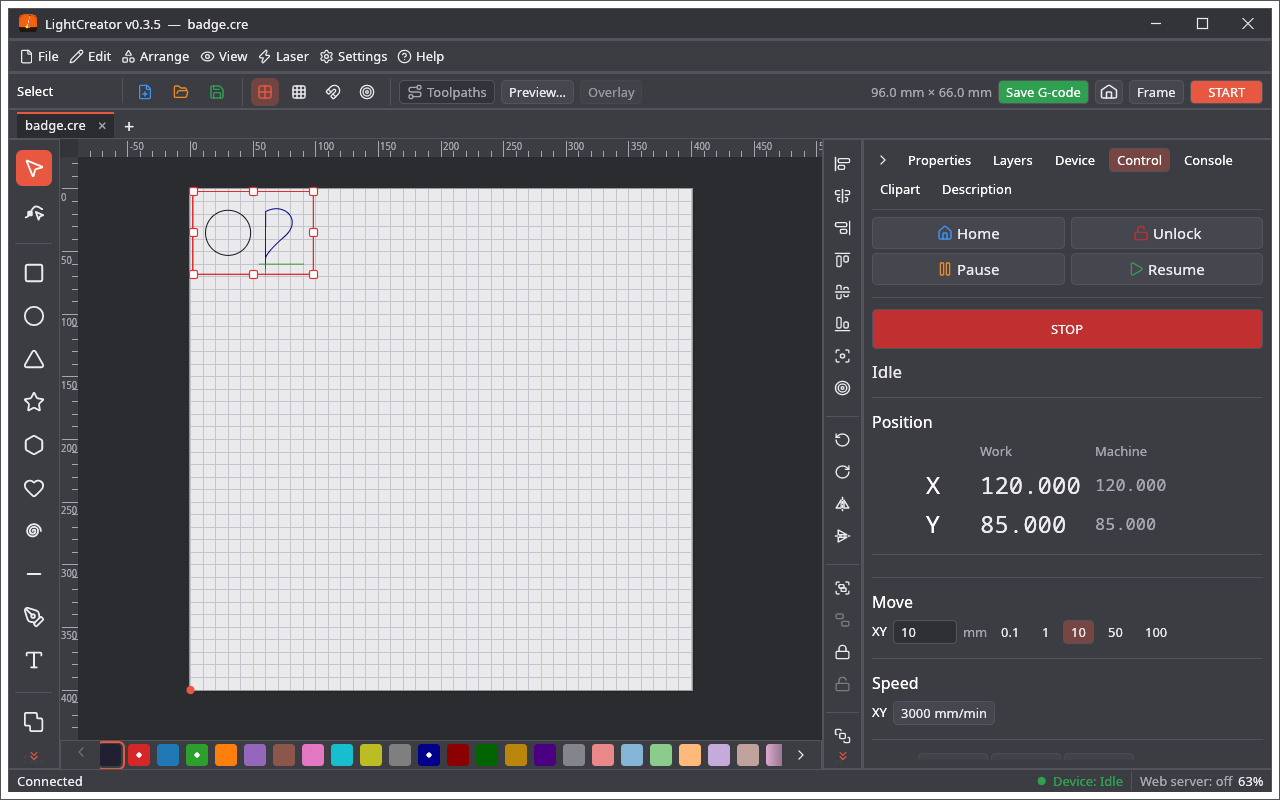
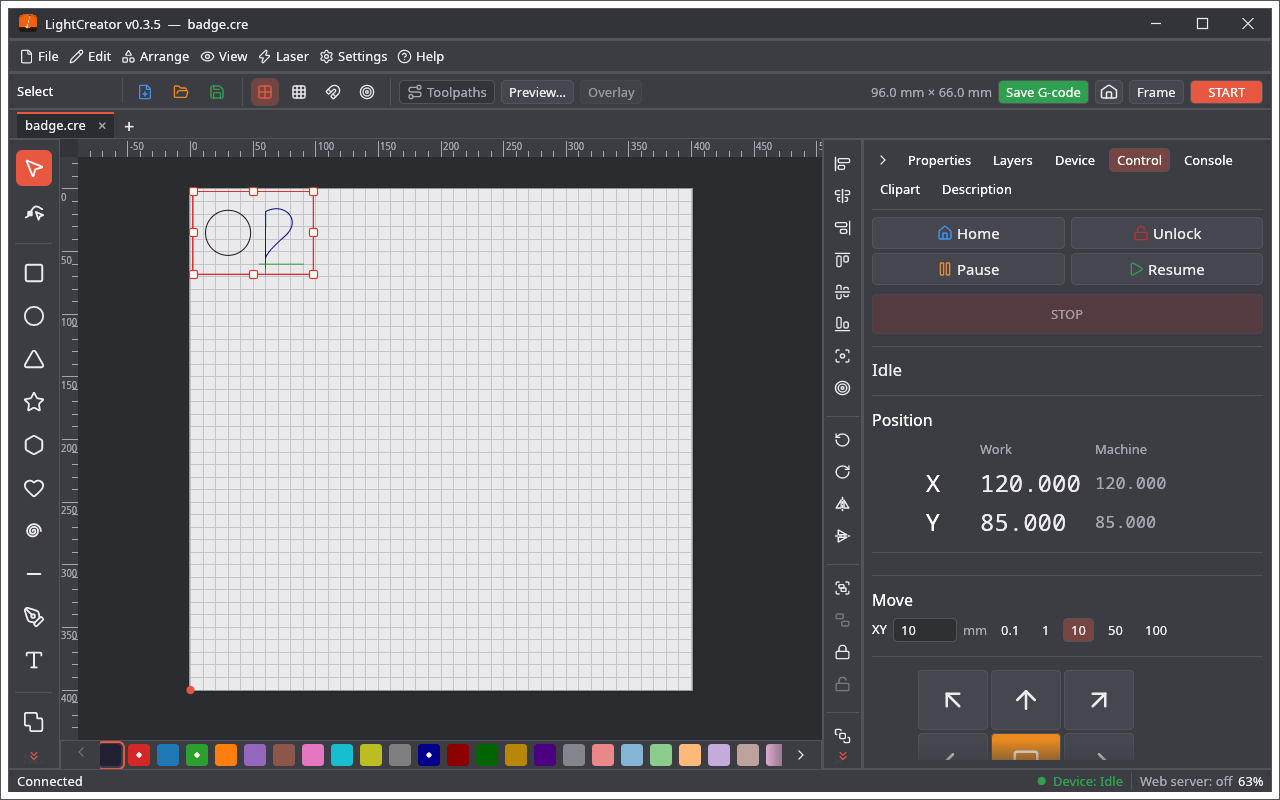
Control tab: Zero buttons in a grid, sections in a new order, STOP live only at work; LightCreator's start / frame options moved to Control; baseCreator v1.20.0

diff --git a/crates/lightcreator/src/control_glue.rs b/crates/lightcreator/src/control_glue.rs
@@ -7,7 +7,7 @@ use crate::i18n::tr;
 use crate::laser::Cmd;
 use lc_core::control::{Axis, Control};
 use base_ui::control_ui::{self, ControlCtx, ControlTarget, Quick};
-use eframe::egui::{self, Color32, RichText};
+use eframe::egui::{self, RichText};
 use lc_core::controller::Action;
 use lc_core::Controller;
 
@@ -175,12 +175,13 @@ impl App {
         egui::ScrollArea::vertical().id_salt("tab_control").auto_shrink([false, false]).show(ui, |ui| {
             self.quick_row(ui);
             ui.add_space(4.0);
-            ui.separator();
-            ui.add_space(4.0);
-            if ui.add_sized([ui.available_width(), 40.0], egui::Button::new(RichText::new(tr("STOP")).color(Color32::WHITE).strong()).fill(Color32::from_rgb(0xc0, 0x30, 0x30))).clicked() {
+            // STOP is live only while the machine works (a job, a frame, a jog, homing).
+            if control_ui::stop_button(ui, self.machine_busy()) {
                 self.abort_job();
             }
-            ui.add_space(6.0);
+            ui.add_space(4.0);
+            ui.separator();
+            ui.add_space(4.0);
             self.sync_jog_settings();
             let dev = &self.doc.device;
             let mut control = Control::default();
@@ -204,8 +205,40 @@ impl App {
             if let Some(s) = say {
                 self.status = s;
             }
+            self.control_options(ui);
             self.control_extras(ui);
         });
+    }
+
+    /// What of the device belongs to framing and to where a job starts: they were in the Device tab. (The step and the speed
+    /// of a jog are the panel's own Move and Speed.)
+    fn control_options(&mut self, ui: &mut egui::Ui) {
+        let running = self.job_running();
+        ui.add_space(4.0);
+        ui.separator();
+        ui.add_space(4.0);
+        ui.add_enabled_ui(!running, |ui| {
+            egui::Grid::new("start_opts").num_columns(2).spacing([10.0, 6.0]).show(ui, |ui| {
+                ui.label(tr("Start from"));
+                let start = &mut self.doc.device.start_from;
+                egui::ComboBox::from_id_salt("start_from").width(150.0).truncate().selected_text(tr(start.label())).show_ui(ui, |ui| {
+                    for m in lc_core::StartFrom::ALL {
+                        ui.selectable_value(start, m, tr(m.label()));
+                    }
+                })
+                .response
+                .on_hover_text(tr("Home: the design is burned where it lies on the work area, counted from the machine's zero. Current position: the top-left corner of the design is put where the laser head stands now (jobs, frames and the dry run), and the job ends there. Exported files always count from the machine's zero."));
+                ui.end_row();
+                ui.label(tr("Frame power"));
+                ui.add(egui::DragValue::new(&mut self.doc.device.heads[0].frame_power).range(0.0..=10.0).suffix(" %")).on_hover_text(tr("0 % keeps the laser off while framing; 1–2 % shows a dim dot on diode lasers"));
+                ui.end_row();
+            });
+        });
+        let mut live = self.doc.device.live_position;
+        if ui.add_enabled(self.connected, egui::Checkbox::new(&mut live, tr("Live laser Position"))).on_hover_text(tr("Shows the position of the laser head as a dot on the work area. Switched on while the machine stands still, it homes first; during a job or a frame it only shows the position, refreshed every second. Needs a connected device.")).changed() {
+            self.set_live_position(live);
+        }
+        self.sync_profile();
     }
 
     /// What a laser has beyond the shared panel: the focus beam, the homing of one axis, the macros of the device and the
@@ -338,5 +371,37 @@ mod tests {
         assert_eq!(p.pins, "P");
         p.forget();
         assert!(p.mpos.is_none());
+    }
+
+    #[test]
+    fn stop_is_live_only_while_the_machine_works_and_the_options_of_the_device_are_here() {
+        use egui_kittest::kittest::NodeT;
+        let mut h = harness(true, true);
+        assert!(h.get_by_label("STOP").accesskit_node().is_disabled(), "nothing is running");
+        h.state_mut().as_mut().unwrap().machine = ("Run".into(), 10.0, 10.0);
+        h.run_steps(3);
+        assert!(!h.get_by_label("STOP").accesskit_node().is_disabled(), "the machine is at work");
+        // The options that were in the Device tab: where a job starts, the power of the frame, the live position.
+        for w in ["Start from", "Frame power", "Live laser Position"] {
+            assert!(h.query_by_label(w).is_some(), "{w} is in the Control tab");
+        }
+        // The step and the speed are the panel's own, in the order Move, jog buttons, Speed.
+        let y = |h: &Harness<'static, Option<App>>, l: &str| h.get_by_label(l).rect().top();
+        assert!(y(&h, "Position") < y(&h, "Move") && y(&h, "Move") < y(&h, "Speed"));
+    }
+
+    #[test]
+    fn the_device_tab_no_longer_holds_those_options() {
+        let mut h = Harness::builder().with_accessibility_check(false).with_size([420.0, 1400.0]).build_ui_state(
+            |ui, state: &mut Option<App>| {
+                let a = state.get_or_insert_with(|| App::build(ui.ctx(), None, false));
+                egui::CentralPanel::default().show(ui, |ui| a.device_tab(ui));
+            },
+            None,
+        );
+        h.run_steps(3);
+        for w in ["Start from", "Frame power", "Jog step", "Jog feed", "Live laser Position"] {
+            assert!(h.query_by_label(w).is_none(), "{w} moved to the Control tab");
+        }
     }
 }

diff --git a/crates/lightcreator/src/guide.rs b/crates/lightcreator/src/guide.rs
@@ -62,7 +62,7 @@ const EN: &[Section] = &[
         lines: &[
             "Toolpaths shows the paths on the work area; Preview… opens the preview window, zoomed to the objects to burn, with every operation in its own colour, travel moves, a time estimate and a play slider. The icons in its title line fit the view to the work area or to all objects. The red ring is the machine zero.",
             "Start sends the job to the connected GRBL or Marlin laser; Frame traces the outline. For Ruida and Trocen, Start exports a PLT or DXF file for the controller's own software. File > Export saves SVG, G-code or PLT / DXF.",
-            "Device tab: connect, then (under a line) Home, Unlock, Pause and Resume in a block of 2 x 2 and the wide STOP button; jog step, jog feed, start from and frame power below. Control tab: the same four buttons at the top, the position, the step and speed of a jog and the jog arrows (the orange one cancels a jog), the focus beam and the macros; the work zero is not moved from there. Ctrl+1 .. Ctrl+9 and Ctrl+0 show the tabs of open drawings, Ctrl+W closes one. Console tab: everything sent to and received from the controller.",
+            "Device tab: connect, then (under a line) Home, Unlock, Pause and Resume in a block of 2 x 2 and the wide STOP button (live only while the machine works). Control tab: the same four buttons and STOP at the top, the position, the step and speed of a jog and the jog arrows (the orange one cancels a jog), the focus beam, the macros, start from, frame power and the live position; the work zero is not moved from there. Ctrl+1 .. Ctrl+9 and Ctrl+0 show the tabs of open drawings, Ctrl+W closes one. Console tab: everything sent to and received from the controller.",
             "Network: a device can connect over TCP, for example to ser2net on a Raspberry Pi. On Linux, Laser > Share over network (ser2net)… prepares ser2net for the laser plugged into this computer.",
         ],
     },
@@ -142,7 +142,7 @@ const PL: &[Section] = &[
         lines: &[
             "Toolpaths pokazuje ścieżki na obszarze roboczym; Preview… otwiera okno podglądu, przybliżone do obiektów do wypalenia, z każdą operacją w osobnym kolorze, ruchami jałowymi, szacowanym czasem i suwakiem odtwarzania. Ikony w linii tytułu dopasowują widok do obszaru roboczego lub do wszystkich obiektów. Czerwony pierścień to zero maszyny.",
             "Start wysyła zadanie do podłączonego lasera GRBL lub Marlin, a Frame obrysowuje zadanie. Dla Ruida i Trocen Start eksportuje plik PLT lub DXF dla oprogramowania sterownika. File > Export zapisuje SVG, G-code lub PLT / DXF.",
-            "Zakładka Device: połączenie, a pod linią Home, Unlock, Pause i Resume w układzie 2 x 2 oraz szeroki przycisk STOP; krok, posuw, start od i moc obrysu są niżej. Zakładka Control: te same cztery przyciski u góry, pozycja, krok i posuw ruchu oraz strzałki (pomarańczowa anuluje ruch), wiązka ostrości i makra; zera pracy nie przesuwa się stamtąd. Ctrl+1 … Ctrl+9 i Ctrl+0 pokazują karty otwartych rysunków, Ctrl+W zamyka kartę. Zakładka Console: wszystko, co wysłano do sterownika i od niego odebrano.",
+            "Zakładka Device: połączenie, a pod linią Home, Unlock, Pause i Resume w układzie 2 x 2 oraz szeroki przycisk STOP (aktywny tylko, gdy maszyna pracuje). Zakładka Control: te same cztery przyciski i STOP u góry, pozycja, krok i posuw ruchu oraz strzałki (pomarańczowa anuluje ruch), wiązka ostrości, makra, start od, moc obrysu i pozycja na żywo; zera pracy nie przesuwa się stamtąd. Ctrl+1 … Ctrl+9 i Ctrl+0 pokazują karty otwartych rysunków, Ctrl+W zamyka kartę. Zakładka Console: wszystko, co wysłano do sterownika i od niego odebrano.",
             "Sieć: urządzenie może łączyć się przez TCP, np. z ser2net na Raspberry Pi. Na Linuksie Laser > Share over network (ser2net)… przygotowuje ser2net dla lasera podłączonego do tego komputera.",
         ],
     },

diff --git a/crates/lightcreator/src/device_ui.rs b/crates/lightcreator/src/device_ui.rs
@@ -1552,37 +1552,8 @@ impl App {
         ui.add_space(4.0);
         self.quick_row(ui);
         ui.add_space(6.0);
-        if ui.add_sized([ui.available_width(), 40.0], egui::Button::new(RichText::new(tr("STOP")).color(Color32::WHITE).strong()).fill(Color32::from_rgb(0xc0, 0x30, 0x30))).clicked() {
+        if base_ui::control_ui::stop_button(ui, self.machine_busy()) {
             self.abort_job();
-        }
-        ui.add_space(6.0);
-        ui.separator();
-        let running = self.job_running();
-        // Options of the device that belong to jogging and framing, always editable.
-        ui.add_enabled_ui(!running, |ui| egui::Grid::new("jog_opts").num_columns(2).spacing([10.0, 6.0]).show(ui, |ui| {
-            ui.label(tr("Jog step"));
-            drag_len(ui, units, &mut self.doc.device.jog_step, 0.1, Some((0.1, 200.0)));
-            ui.end_row();
-            ui.label(tr("Jog feed"));
-            drag_speed(ui, units, self.doc.device.speed_unit, true, &mut self.doc.device.jog_feed, 10.0, Some((10.0, 20000.0)));
-            ui.end_row();
-            ui.label(tr("Start from"));
-            let start = &mut self.doc.device.start_from;
-            egui::ComboBox::from_id_salt("start_from").width(150.0).truncate().selected_text(tr(start.label())).show_ui(ui, |ui| {
-                for m in lc_core::StartFrom::ALL {
-                    ui.selectable_value(start, m, tr(m.label()));
-                }
-            })
-            .response
-            .on_hover_text(tr("Home: the design is burned where it lies on the work area, counted from the machine's zero. Current position: the top-left corner of the design is put where the laser head stands now (jobs, frames and the dry run), and the job ends there. Exported files always count from the machine's zero."));
-            ui.end_row();
-            ui.label(tr("Frame power"));
-            ui.add(egui::DragValue::new(&mut self.doc.device.heads[0].frame_power).range(0.0..=10.0).suffix(" %")).on_hover_text(tr("0 % keeps the laser off while framing; 1–2 % shows a dim dot on diode lasers"));
-            ui.end_row();
-        }));
-        let mut live = self.doc.device.live_position;
-        if ui.add_enabled(self.connected, egui::Checkbox::new(&mut live, tr("Live laser Position"))).on_hover_text(tr("Shows the position of the laser head as a dot on the work area. Switched on while the machine stands still, it homes first; during a job or a frame it only shows the position, refreshed every second. Needs a connected device.")).changed() {
-            self.set_live_position(live);
         }
         self.sync_profile();
     }

diff --git a/docs/wiki/Urzadzenia-i-sterowniki.md b/docs/wiki/Urzadzenia-i-sterowniki.md
@@ -66,7 +66,7 @@ Ekran startowy (taki sam jak w MillCreatorze i PenCreatorze) ma u góry listę u
 
 ## Zakładka Device i pasek sterowania
 * **Start** jest aktywny, gdy laser jest podłączony (Ruida i Trocen eksportują plik), a podczas pracy zamienia się w czerwony **STOP**; **Frame** wymaga połączenia i jest wyłączony w trakcie pracy. Ikona **Home** między *Save G-code* a *Frame* robi to samo co Home w zakładce Device i jest wyłączona w tych samych przypadkach (brak połączenia albo trwa zadanie).
-* Zakładka Device ma połączenie i pozycję, a pod nimi Home, Unlock, Pause i Resume w układzie 2 × 2 (ikony niebieska, czerwona, pomarańczowa i zielona) oraz szeroki czerwony przycisk STOP; krok, posuw, „start od” i moc obrysu są niżej. Zakładka **Control** (taka sama jak w MillCreatorze i PenCreatorze) ma te same przyciski u góry, pozycję, krok i posuw ruchu oraz osiem strzałek (cztery ukośne przesuwają X i Y naraz o jeden krok; pomarańczowy kwadrat anuluje ruch), a dalej wiązkę ostrości, makra i wskaźnik. Zera pracy nie przesuwa się stamtąd: zadanie liczy od zera maszyny.
+* Zakładka Device ma połączenie i pozycję, a pod nimi Home, Unlock, Pause i Resume w układzie 2 × 2 (ikony niebieska, czerwona, pomarańczowa i zielona) oraz szeroki czerwony przycisk STOP (aktywny tylko, gdy maszyna pracuje). Zakładka **Control** (taka sama jak w MillCreatorze i PenCreatorze) ma te same przyciski u góry, pozycję, krok i posuw ruchu oraz osiem strzałek (cztery ukośne przesuwają X i Y naraz o jeden krok; pomarańczowy kwadrat anuluje ruch), a dalej wiązkę ostrości, makra i wskaźnik oraz **Start od**, **Moc obrysu** i **Pozycję lasera na żywo**. Zera pracy nie przesuwa się stamtąd: zadanie liczy od zera maszyny.
 * **Live laser Position** (Pozycja lasera na żywo; zakładka Device, przełącznik urządzenia, domyślnie wyłączony, zapisywany z profilem; wyszarzony bez połączenia): pokazuje głowicę jako czerwoną kropkę na obszarze roboczym. Włączony, gdy maszyna stoi, najpierw **wykonuje bazowanie**, żeby pozycja była znana; włączony w trakcie pracy, obrysu lub ruchu tylko pokazuje kropkę, która wtedy przesuwa się raz na sekundę. Nic z tego nie było sprawdzane na prawdziwej maszynie.
 * **Start from** (Start od; zakładka Device, ustawienie urządzenia zapisywane z profilem): **Home (zero maszyny)**, domyślnie, wypala projekt tam, gdzie leży na obszarze roboczym, licząc od zera maszyny. **Aktualna pozycja lasera** stawia lewy górny róg projektu (tego, co naprawdę jest wypalane) tam, gdzie stoi teraz głowica; korzystają z tego praca, obrys i próba bez lasera, kontrola przed pracą sprawdza przesunięty projekt względem obszaru roboczego, a praca kończy się tam, gdzie się zaczęła (gdy włączony jest „Return to origin"), a nie w zerze maszyny. Wymaga połączenia i znanej pozycji; bez nich oraz w plikach eksportowanych projekt zostaje na swoim miejscu. Podgląd pokazuje projekt tak, jak leży na obszarze roboczym. Nic z tego nie było sprawdzane na prawdziwej maszynie.
 

diff --git a/docs/wiki/Devices-and-Controllers.md b/docs/wiki/Devices-and-Controllers.md
@@ -66,7 +66,7 @@ The start screen (the same as in MillCreator and PenCreator) has the list of dev
 
 ## Device tab and the control bar
 * **Start** is enabled when a laser is connected (Ruida and Trocen export a file instead) and turns into a red **STOP** while the job runs; **Frame** needs a connection and is disabled during a job. The **Home** icon between *Save G-code* and *Frame* does the same as Home in the Device tab and is off in the same cases (no connection, or a job running).
-* The Device tab has the connection and the position, then Home, Unlock, Pause and Resume in a block of 2 × 2 (blue, red, orange and green icons) and a wide red STOP button; jog step, jog feed, start from and frame power are below. The **Control** tab (the same as in MillCreator and PenCreator) has the same buttons at the top, the position, the step and speed of a jog, and the eight jog arrows (the four diagonals move X and Y by one step at once; the orange square cancels a jog), then the focus beam, the macros and the pointer. The work zero is not moved from there: a job counts from the machine's zero.
+* The Device tab has the connection and the position, then Home, Unlock, Pause and Resume in a block of 2 × 2 (blue, red, orange and green icons) and a wide red STOP button (live only while the machine works). The **Control** tab (the same as in MillCreator and PenCreator) has the same buttons at the top, the position, the step and speed of a jog, and the eight jog arrows (the four diagonals move X and Y by one step at once; the orange square cancels a jog), then the focus beam, the macros and the pointer, and **Start from**, **Frame power** and **Live laser position**. The work zero is not moved from there: a job counts from the machine's zero.
 * **Live laser Position** (Device tab, a switch of the device, off by default, saved with the profile; greyed out without a connection): shows the head as a red dot on the work area. Switched on while the machine stands still, it **homes** first so that the position is known; switched on during a job, a frame or a jog it only shows the dot, which then moves once a second. Nothing of this was tried on a real machine.
 * **Start from** (Device tab, a setting of the device, saved with the profile): **Home (machine zero)**, the default, burns the design where it lies on the work area, counted from the machine's zero. **Current position of the laser** puts the top-left corner of the design (of what is really burned) where the head stands now; the job, the frame and the dry run use it, the check before the job tests the moved design against the work area, and the job ends where it started (when "Return to origin" is on) instead of at the machine's zero. It needs a connection and a known position; without one, and for exported files, the design stays where it is. The preview shows the design as placed on the work area. Nothing of this was tried on a real machine.
 

diff --git a/FEATURES.md b/FEATURES.md
@@ -95,12 +95,13 @@
 * **Side panel layout:** Properties is laid out as a table with sections separated by lines (position and size,
   rotation, mirroring, alignment, layer) and buttons of one size. Image settings of a layer show only when the layer
   holds bitmap images. The Device tab has the connection and the position, a line, then Home, Unlock, Pause and Resume in a block of
-  2 × 2 with icons (Home blue, Unlock red, Pause orange, Resume green; the same in MillCreator and PenCreator) and STOP, and
-  below them jog step, jog feed, start from and frame power. The console output has its own background colour.
+  2 × 2 with icons (Home blue, Unlock red, Pause orange, Resume green; the same in MillCreator and PenCreator) and STOP
+  (live only while the machine works). The console output has its own background colour.
 * **Control tab** (the same tab as in MillCreator and PenCreator): the four buttons and STOP at the top, the position (work
   and machine) read from the controller, the step and the speed of a jog (the same as the device's), the big jog buttons with
   Z when the machine has a Z axis, hold to move and the arrow keys (GRBL), then the focus beam, homing of one axis, the macros
-  and the red-dot pointer. A job here counts from the machine's zero, so the work zero is not moved from this tab, and there
+  and the red-dot pointer, and the options that go with them: start from, frame power and the live position. STOP is live only
+  while the machine works. The section order is the same as in the other programs (position, Move, the jog buttons, Speed). A job here counts from the machine's zero, so the work zero is not moved from this tab, and there
   is no spindle and no probe. Jogs keep to the margins and the limits of the device and go through its controller.
 * **Live laser position:** a switch in the Device tab (off by default, saved with the device, greyed out without a
   connection) that shows the head as a red dot on the work area. Switched on at rest it homes the machine first;
